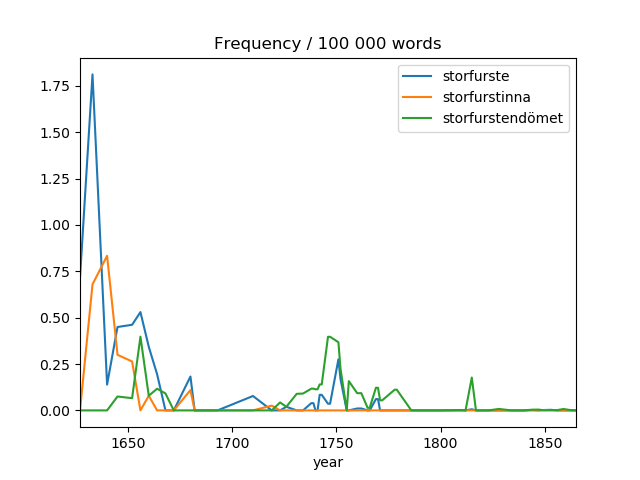
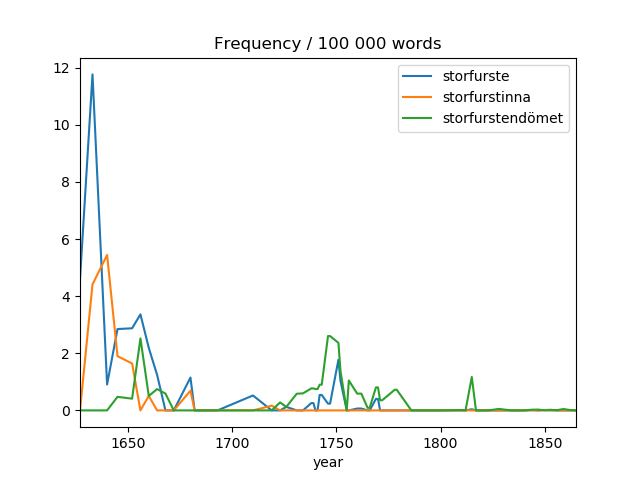
words not chars

diff --git a/src/tools/word_frequency.py b/src/tools/word_frequency.py
@@ -20,7 +20,10 @@ def get_frequency(
     }
     rows = []
     for file, text in texts:
-        row = {'file': file, 'words': len(text)}
+        row = {
+            'file': file,
+            'words': len(re.findall(r'\w+', text))
+        }
         for w, r in regex.items():
             row[w] = len(r.findall(text))
         rows.append(row)
